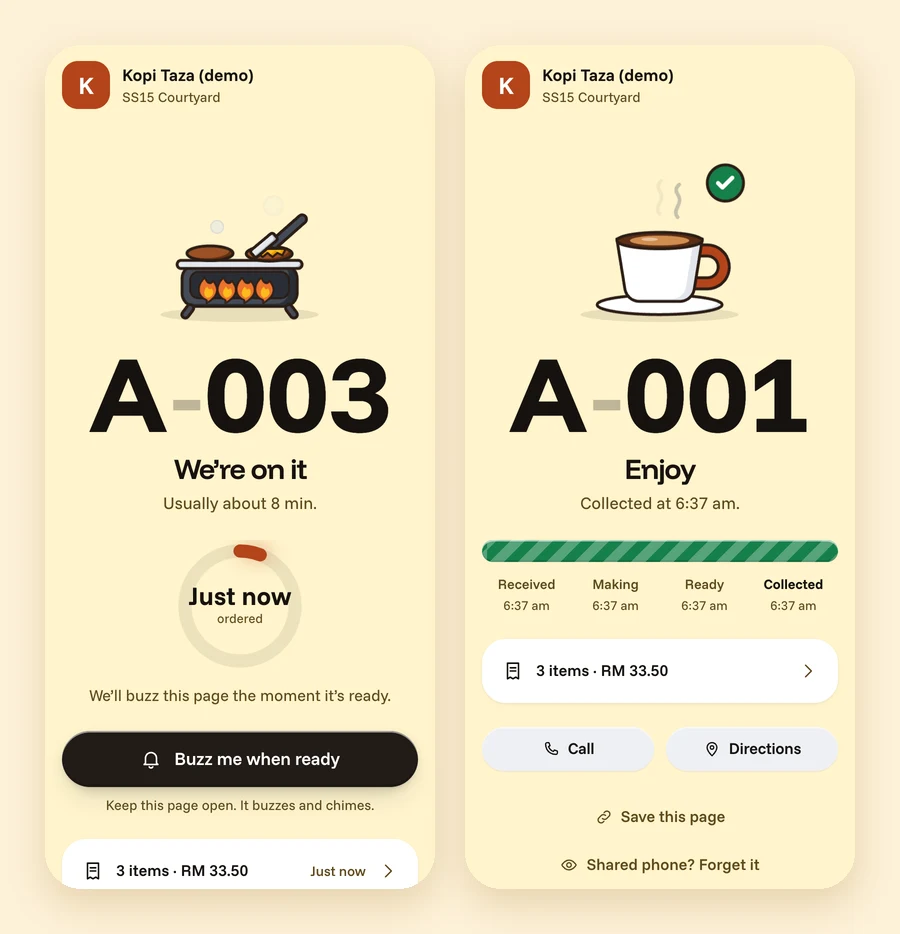
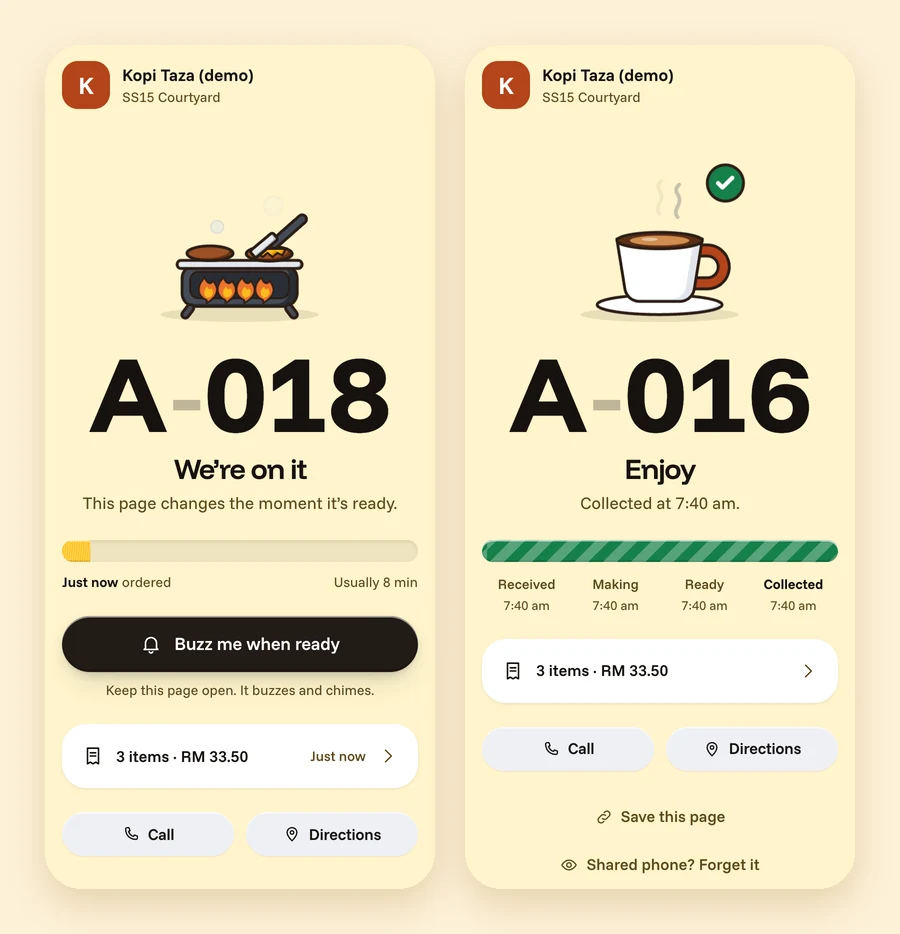
Ready-only screenshot and copy: bar instead of ring

diff --git a/README.md b/README.md
@@ -18,7 +18,7 @@ Taza is the first module of a restaurant operating system: **Pickup Lite**.
 - **Customers follow their order live.** They scan a QR, open a link or tap an NFC tag and get a big queue number, a scene of their food being made and a progress track that fills: Received, Making, Ready, Collected. The page can buzz them when it's ready, and it keeps working through a bad connection.
 - **Each business type has its own scenes.** A burger place shows a patty on the grill, then the burger assembling. A shawarma place shows the spit being carved, then the wrap. Coffee, bubble tea, bakery, noodles and rice all have their own loops.
 - **Ready is the big moment.** The top of the page turns into a yellow ticket you can read at arm's length, the same yellow the pickup TV uses. The screen stays awake while the order is on its way, because iPhones get no notifications from a web page.
-- **Some places don't show the steps.** They can switch to "just when it's ready". Customers then see honest time since ordering and a calm ring, never a fake progress bar.
+- **Some places don't show the steps.** They can switch to "just when it's ready". Customers then see the same bar filled by honest time since ordering against the usual wait. It never fakes steps or fills up before staff tap Ready.
 - **Staff can take orders by voice.** In capture mode the counter says the order out loud, Taza lists it against the menu, and staff tap Ready when it's done. Orders get a Taza number or keep the business's own POS number.
 - **The business builds its own menu.** Photos, options ("no lettuce"), combos with a chosen drink, and discounted add-ons suggested after an item is added, if the owner switches that on.
 - **Any business sets itself up.** It signs up from the website, says what it serves, chooses how much customers see, adds a few items, picks its look and sends itself a practice order.
@@ -27,7 +27,7 @@ Taza is the first module of a restaurant operating system: **Pickup Lite**.
 
 | Ready-only mode, then collected | Dark surface |
 |---|---|
-| <img src="assets/screens/customer-readyonly-collected.webp" alt="Left: We're on it, usually about 8 min, with a ring and time since ordering over a grill scene. Right: Enjoy, collected, with a check badge on the cup"> | <img src="assets/screens/customer-ink.webp" alt="The same page on a near-black surface: Carving it now over a shawarma spit, then Ready to collect with the wrap on the yellow ticket"> |
+| <img src="assets/screens/customer-readyonly-collected.webp" alt="Left: We're on it, with the progress bar filled by time since ordering and Usually 8 min, over a grill scene. Right: Enjoy, collected, with a check badge on the cup"> | <img src="assets/screens/customer-ink.webp" alt="The same page on a near-black surface: Carving it now over a shawarma spit, then Ready to collect with the wrap on the yellow ticket"> |
 
 <p align="center"><img src="assets/gifs/customer-tour.gif" width="300" alt="Recorded tour: an order goes from Got your order to On the grill now to Ready to collect, the burger stacking and the page turning yellow"></p>
 
